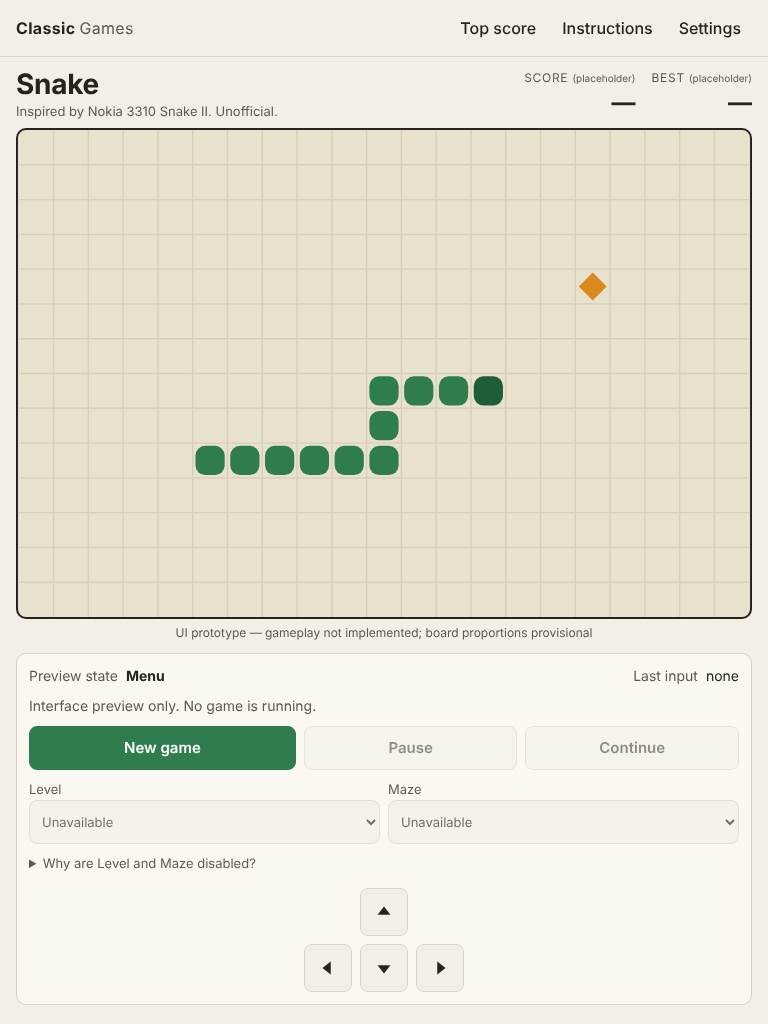
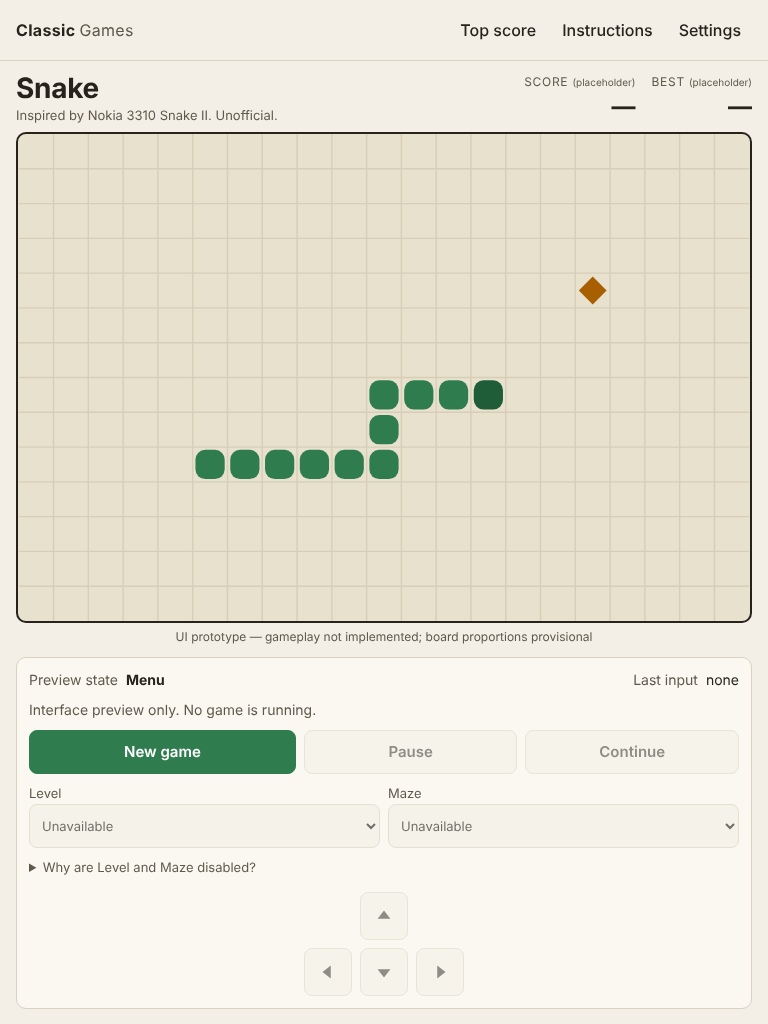
Fix UI prototype focus handling, food contrast and header touch targets
Claude-Session: https://claude.ai/code/session_01Cu8tbykJeN6D3ngV2zuDRR

diff --git a/src/main.js b/src/main.js
@@ -129,8 +129,12 @@
   var btnPause = $('btn-pause');
   var btnContinue = $('btn-continue');
 
+  var currentState = 'menu';
+  var dpadButtons = document.querySelectorAll('.dpad-btn');
+
   function setState(key) {
     var s = STATES[key];
+    currentState = key;
     $('state-name').textContent = s.name;
     $('status').textContent = s.status;
     var overlay = $('overlay');
@@ -138,28 +142,34 @@
     $('overlay-text').textContent = s.overlay;
     btnPause.disabled = key !== 'ready';
     btnContinue.disabled = key !== 'paused';
+    // Direction preview only registers in the ready preview state.
+    Array.prototype.forEach.call(dpadButtons, function (b) { b.disabled = key !== 'ready'; });
   }
 
-  btnNew.addEventListener('click', function () { setState('ready'); });
+  btnNew.addEventListener('click', function () {
+    setState('ready');
+    showInput('none');
+    $('board').focus(); // so arrow keys work immediately after an explicit start
+  });
   btnPause.addEventListener('click', function () {
     setState('paused');
     btnContinue.focus();
   });
   btnContinue.addEventListener('click', function () {
     setState('ready');
-    btnPause.focus();
+    $('board').focus();
   });
 
   // ---------- Direction input preview ----------
   function showInput(dir) {
     $('last-input').textContent = dir;
   }
-  Array.prototype.forEach.call(document.querySelectorAll('.dpad-btn'), function (b) {
+  Array.prototype.forEach.call(dpadButtons, function (b) {
     b.addEventListener('click', function () { showInput(b.getAttribute('data-dir')); });
   });
   var ARROWS = { ArrowUp: 'Up', ArrowDown: 'Down', ArrowLeft: 'Left', ArrowRight: 'Right' };
   $('board').addEventListener('keydown', function (e) {
-    if (ARROWS[e.key]) {
+    if (ARROWS[e.key] && currentState === 'ready') {
       e.preventDefault(); // only while the board has focus
       showInput(ARROWS[e.key]);
     }

diff --git a/styles.css b/styles.css
@@ -16,7 +16,7 @@
   --board-line: #d6ceb6;
   --snake: #2f7d4f;
   --snake-head: #1f5c38;
-  --food: #d98a1a;
+  --food: #a85f00;
   --accent: #2f7d4f;
   --accent-ink: #ffffff;
   --focus: #1d4ed8;
@@ -196,7 +196,7 @@ select:disabled { opacity: 0.65; cursor: not-allowed; }
 .btn:active:not(:disabled) { transform: translateY(1px); }
 .btn:disabled { opacity: 0.5; cursor: not-allowed; }
 .btn-primary { background: var(--accent); color: var(--accent-ink); border-color: var(--accent); }
-.btn-quiet { background: transparent; border-color: transparent; padding: 0 10px; min-height: 40px; font-weight: 500; }
+.btn-quiet { background: transparent; border-color: transparent; padding: 0 10px; min-height: 44px; font-weight: 500; }
 .btn-quiet:hover:not(:disabled) { border-color: var(--line); }
 
 /* D-pad: inverted-T for a compact footprint */

diff --git a/docs/UI_PROTOTYPE.md b/docs/UI_PROTOTYPE.md
@@ -1,6 +1,6 @@
 # Snake UI prototype
 
-Status: implementation by Claude Code for the owner-authorized UI milestone. **Not independently accepted**; Codex review is pending.
+Status: implementation by Claude Code for the owner-authorized UI milestone. **Not independently accepted**; Codex review corrections (focus, food contrast, header touch targets) applied and awaiting re-review.
 
 ## Scope
 Interface only, following `docs/INTERFACE_SPEC.md` and `docs/ARCHITECTURE_PLAN.md`. Dependency-free HTML, CSS and vanilla JavaScript with a Canvas 2D board, system fonts, no raster assets, no backend, no network requests.
@@ -17,7 +17,7 @@ Interface only, following `docs/INTERFACE_SPEC.md` and `docs/ARCHITECTURE_PLAN.m
 - Level and Maze selects are disabled and show only "Unavailable", with an explanation of why. No counts or options are invented.
 - Working Colour (default), LCD and Night theme switcher in Settings. The theme preference is the only thing stored (`localStorage` key `classic-games.theme`, failure-tolerant). No scores are stored.
 - Sound and Vibration controls are disabled and labelled not implemented.
-- Mobile D-pad of four labelled 44 px+ buttons and board-focused arrow keys; both only display "Last input". Nothing moves.
+- Mobile D-pad of four labelled 44 px+ buttons and board-focused arrow keys; both only display "Last input" and only register in the Ready preview (D-pad buttons are disabled in Menu and Paused). New game and Continue move focus to the board so arrow keys work immediately without clicking it; Pause moves focus to Continue. Nothing moves.
 - Desktop (900 px and wider) puts controls beside the board; narrower screens use a single column; short landscape phones use a side-control layout. The D-pad is hidden on wide screens with a fine pointer.
 
 ## What is deliberately not implemented
@@ -36,22 +36,30 @@ Environment: cloud Linux container, Chromium 1194 build from `/opt/pw-browsers` 
 | HTML tag balance, duplicate IDs, IDs referenced by JS exist (small script) | pass |
 | Console/page errors at all sizes × 3 themes (15 combinations) | none |
 | Horizontal overflow at 320×568, 390×844, 768×1024, 1366×768, 1440×900, each theme | none |
-| Enabled buttons at least 44 px wide and 40 px high (computed) | all |
-| 390×844: board and D-pad fully inside the viewport (D-pad bottom 767 px); footer below the fold | pass |
+| Enabled buttons at least 44 px wide and 44 px high (computed, every size/theme); header actions measured Top score 76×44, Instructions 88×44, Settings 65×44 at 390 px | all |
+| 390×844: board and D-pad fully inside the viewport (D-pad bottom 771 px of 844); footer below the fold | pass |
 | 1366×768 and 1440×900: no page scroll; board 744×496 | pass |
 | Default theme Colour; Level/Maze/Continue initially disabled | pass |
 | New game → Pause → Continue state cycle; D-pad input display | pass |
 | Settings and Instructions dialogs open and close with Escape; Night theme applies | pass |
 | Keyboard Tab reaches buttons with a 3 px solid outline (computed style) | pass |
+| Real keyboard input, no board click: New game → focus on `#board`; ArrowLeft/ArrowUp register ("Left", "Up") | pass |
+| Pause → focus on Continue; ArrowRight with the board focused while Paused is ignored (still "Up") | pass |
+| Continue → focus on `#board`; ArrowDown registers ("Down") | pass |
+| D-pad buttons disabled on load and enabled after New game (fresh page) | pass |
+| Contrast, script computing WCAG ratios from the theme variables in `styles.css`, all three themes: text pairs ink/bg, ink/surface, muted/bg, muted/surface, accent-ink/accent, ink/board at least 4.5:1; non-text snake/board, snake-head/board, food/board, focus/bg, focus/surface, accent/surface at least 3:1 | 0 failures of 54 pairs |
 | `prefers-reduced-motion: reduce`: button transition duration 0 s | pass |
 | D-pad hidden on 1366×768 with a fine pointer | pass |
 | Compressed size of HTML+CSS+JS (gzip) | about 6.9 KB (20.9 KB raw) |
 
+## Contrast change
+The review measured Colour food `#d98a1a` on board `#e8e1cd` at 2.12:1. Colour food is now `#a85f00`, 3.74:1 against the board (food remains a diamond shape, distinct from square snake segments). The script flagged only that pair; other values are unchanged.
+
 ## Known limits and issues
 - At 320×568 and 768×1024 the page scrolls vertically; the D-pad is below the fold at 320×568. The fit requirement was met only for 390×844.
 - Verified in Chromium only. Not tested in Safari, Firefox, real mobile browsers, with a screen reader or on actual touch hardware. Touch was emulated by Playwright.
-- Text contrast ratios were not measured with a tool; palette values were chosen for contrast but are unverified.
-- The spec's "ask before discarding a resumable run" prompt is not previewed. Keyboard shortcuts other than arrows (WASD, 2/4/6/8, P, Escape for pause) are not implemented pending owner approval.
+- Contrast was computed from CSS variables only; blended states (the board overlay at 45% opacity, disabled controls at reduced opacity) and anti-aliased canvas edges were not measured. Disabled controls are exempt from contrast requirements.
+- The spec's "ask before discarding a resumable run" prompt is not previewed. Keyboard shortcuts other than arrows (WASD, 2/4/6/8, P, Escape for pause) are not implemented pending owner approval. Arrow keys only act while the board has focus.
 - Colour overlay and status text are plain DOM text; the canvas has a single static `role="img"` label.
 - The "Top score" dialog says no scores exist. It is not the final design of that function.
-- Screenshots are of this static preview, not of a game, and are not approved designs.
+- Screenshots in `docs/screenshots/` were regenerated after the corrections. They are of this static preview, not of a game, and are not approved designs.
